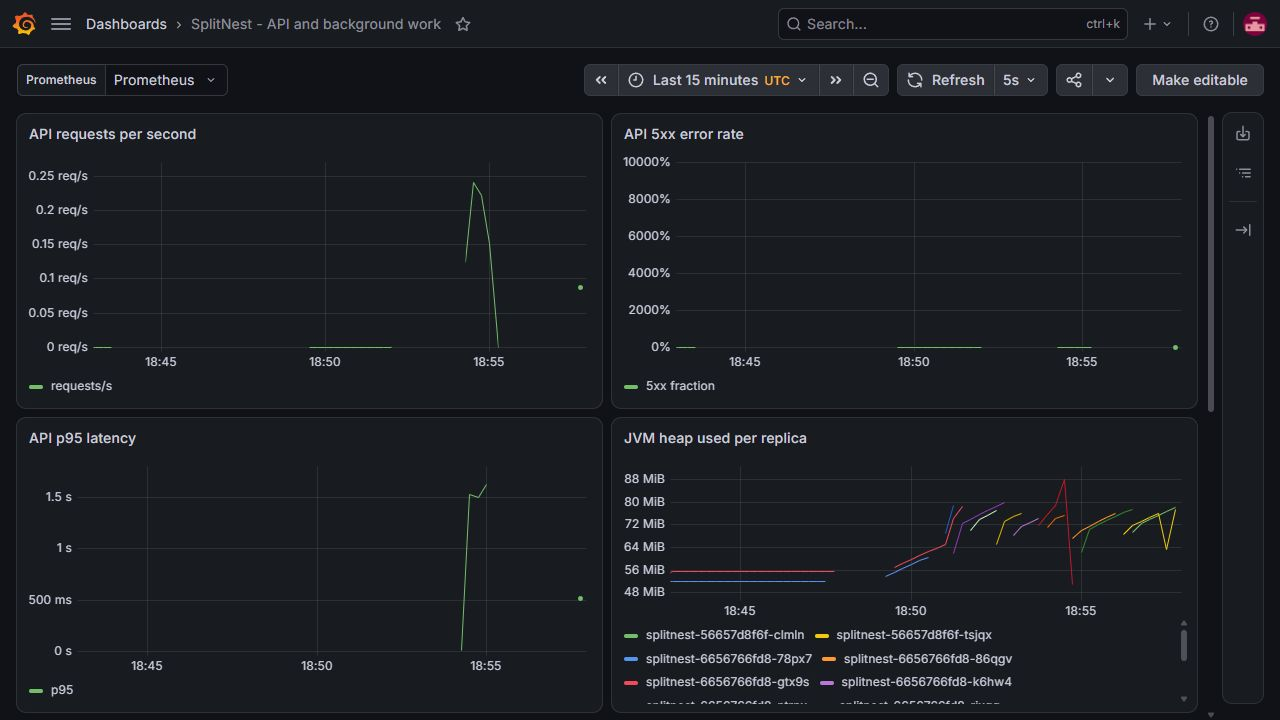
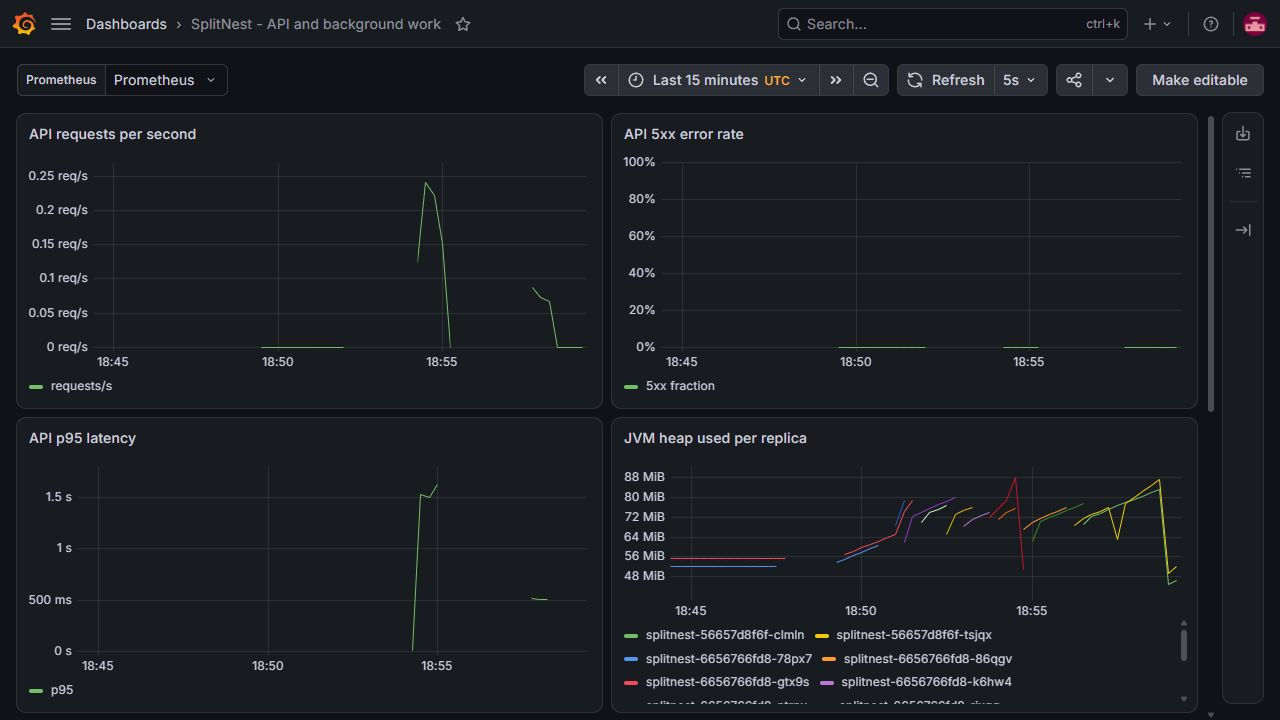
docs: complete verified GitOps walkthrough and interview handoff

diff --git a/docs/development-plan.md b/docs/development-plan.md
@@ -223,7 +223,7 @@ working deployment or a measured performance result.
   belong in structured logs, never high-cardinality metric labels.
 
 These contracts guide the implementation and tests. The status table and evidence
-ledger distinguish locally verified behavior from deployment checks still pending.
+ledger distinguish application tests, completed delivery checks and stated limits.
 
 ## 5. Milestones and acceptance gates
 
@@ -233,8 +233,8 @@ ledger distinguish locally verified behavior from deployment checks still pendin
 | 2. Complete financial API | 1.2-1.5, 2.1-2.4, 3.1 | Registration/login/refresh/logout, Swagger, membership, expenses, SQL balances, isolation suite | Three-user API demo; uneven splits; rollback; history after removal; 404/403 matrix; refresh replay/concurrency tests | All 75 Java tests pass locally and in CI; Compose and Kubernetes API smoke tests pass |
 | 3. Reliability and background work | 3.2-3.4, 4.1-4.5, 9.1-9.2 | Limiting/cache, imports/recovery, budgets/alerts, metrics/log context, initial ADRs | Real Redis tests; file fixtures; one claim across workers; recovery of lost events; duplicate-alert prevention; secret-free logs | Automated tests pass locally and in CI; live imports and one persisted budget alert with two replicas and a ShedLock row verified |
 | 4. Reproducible delivery | 5.1-5.2, 6.2 | Non-root multistage image, full Compose, scan, GHCR image publishing | Healthy Compose startup; smoke scenario; measured image size; required test job and critical-vulnerability scan pass | Verified: Compose, local and remote scans, GHCR publication and anonymous digest retrieval |
-| 5. Kubernetes and GitOps | 7.1-7.6, 8.1-8.4 | kind, handwritten manifests, two replicas, ShedLock, HPA, Argo CD, promotion and rollback | Healthy rollouts; retained expenses after database replacement; persisted-alert uniqueness and observed lock; commit-to-cluster reconciliation; Git rollback; failure experiments | Pod/PostgreSQL recovery, scheduler evidence and HPA 2-to-5 verified; Argo Synced/Healthy on published digest with two ready replicas and passing smoke; live Git rollback pending |
-| 6. Evidence and interview handoff | 9.3-9.4, 10.1-10.3 | Dashboard, controlled k6 runs, complete README/runbooks/ADRs/demo | Actual screenshots and test artifacts; controlled performance report; fresh-checkout CI and final walkthrough; explainable decisions and limitations | Dashboard/metrics, cache/HPA reports and registry-to-cluster rollout verified; final evidence/walkthrough awaits live Git rollback |
+| 5. Kubernetes and GitOps | 7.1-7.6, 8.1-8.4 | kind, handwritten manifests, two replicas, ShedLock, HPA, Argo CD, promotion and rollback | Healthy rollouts; retained expenses after database replacement; persisted-alert uniqueness and observed lock; commit-to-cluster reconciliation; Git rollback; failure experiments | Verified: Pod/PostgreSQL recovery, scheduler evidence, HPA 2-to-5, and automatic Argo promotion/Git rollback/restore, each with two ready replicas and Healthy/Synced status |
+| 6. Evidence and interview handoff | 9.3-9.4, 10.1-10.3 | Dashboard, controlled k6 runs, complete README/runbooks/ADRs/demo | Actual screenshots and test artifacts; controlled performance report; fresh-checkout CI and final walkthrough; explainable decisions and limitations | Dashboard screenshots/metrics, cache/HPA reports, fresh-checkout CI and live GitOps evidence recorded; walkthrough, reading guide and interview questions available |
 
 The successful Linux CI run is evidence of a fresh-checkout build, tests, image
 scan and generated-manifest validation. It does not replace a separately observed
@@ -319,15 +319,18 @@ milestone is ready; it is not another application.
 This branch has now been generated by the successful CI run: manifest sync
 `66feb28`, followed by image promotion `fa03f6d`. The real isolated kind validation
 job passed in addition to the eight local Git/mock-kubectl fixture scenarios.
-Argo CD's Application is now Synced and Healthy at `fa03f6d`, with two ready
+Argo CD's first rollout was Synced and Healthy at `fa03f6d`, with two ready
 replicas using the exact published digest. The registry-image API smoke test and
 readiness check pass; see [first rollout evidence](evidence/argocd-first-rollout.json).
-The live rollback demonstration is still pending.
+The subsequent live Git rollback and restoration of the latest image also passed
+through automatic polling, each reaching Healthy/Synced with two ready replicas;
+see [rollback and restore evidence](evidence/gitops-rollback.json). The final
+observed deployment revision is `3fbf070`, restored to the `e554a02e` digest.
 
 This replaces the original direct-to-main tag commit for a concrete reason:
 strict protected-main rules and unrestricted bot pushes conflict. It adds no
-service or dependency. A deployment-tag Git revert on deploy/local will be the
-rollback demonstration; a bad source change must also be reverted on main.
+service or dependency. The deployment-image Git revert on deploy/local has now
+been demonstrated; a bad source change must also be reverted on main.
 GitHub documents the ordinary GITHUB_TOKEN push recursion behavior in its
 [workflow-trigger guidance](https://docs.github.com/en/actions/how-tos/write-workflows/choose-when-workflows-run/trigger-a-workflow).
 
@@ -386,9 +389,11 @@ manifest, two local app replicas, app/PostgreSQL replacement preserving all 1,00
 fixture expenses, one persisted budget alert with a lock record under two
 replicas, and the provisioned dashboard. Cached/uncached runs and a separate
 observed HPA transition from two to five ready replicas are complete. The budget
-check is not a count of scheduler method executions. Argo is Synced and Healthy
-on the published digest with a passing API smoke/readiness check; Git-driven
-rollback remains the live acceptance check.
+check is not a count of scheduler method executions. Argo reconciled the published
+images, a Git-driven rollback and restoration of the latest release, with two
+ready replicas and Healthy/Synced status at every recorded stage. The releases
+differed only in OCI repository metadata; API implementation remained unchanged
+and no schema rollback was performed.
 
 Use port-forward for Swagger. Run replica/load demonstrations through the actual
 Kubernetes Service, preferably with a k6 Job inside the cluster. Port-forwarding
@@ -427,11 +432,18 @@ Add performance numbers only after repeatable measurements exist.
   pass without suppressing the initial findings. Published image digest:
   `sha256:76091d746a6438430600af27a6b533455822f45d8d16148b4f5e7dd339bfbcf1`;
   anonymous manifest retrieval returned HTTP 200 for that digest.
-- The generated deployment branch contains manifest sync `66feb28` and image
-  promotion `fa03f6d`. Argo CD's Application is Synced and Healthy at that revision,
-  with two ready registry-image replicas on the exact published digest; API smoke
-  and readiness checks pass. The live Git rollback is pending. See
+- The first generated deployment contains manifest sync `66feb28` and image
+  promotion `fa03f6d`. Argo reconciled that exact registry digest with two ready
+  replicas, Healthy/Synced status and passing API smoke/readiness checks. See
   [argocd-first-rollout.json](evidence/argocd-first-rollout.json).
+- Live Git rollback and restore completed: promotion `b458b37` selected
+  `sha256:e554a02e01429c47356c67714ce75b2ae4306c256ffc69d18e80605323e24972`;
+  Git revert `ce8556f` restored the earlier `76091d74` digest; revert-of-revert
+  `3fbf070` restored the latest `e554a02e` image. All three observations reached
+  Healthy/Synced with two ready replicas through automatic Argo polling, without
+  a manual refresh. The latest image is restored. The releases changed OCI
+  metadata only, and no schema rollback occurred. See
+  [gitops-rollback.json](evidence/gitops-rollback.json), whose error field is null.
 - Local kind manifests pass actual API validation. App-Pod and PostgreSQL
   replacement recover successfully, with all 1,000 fixture expenses preserved.
   The local app Secret came from ignored `.env` with the owner's explicit approval.

diff --git a/docs/evidence/verification.md b/docs/evidence/verification.md
@@ -70,6 +70,14 @@ is a separate check below.
   768 MiB limit has remained stable. The error-rate query returns zero when API
   counters exist without 5xx events, and no data when request metrics are absent;
   both conditions were checked against Prometheus.
+- The import-duration panel now uses cumulative duration divided by cumulative
+  count and is titled **Mean import duration since process start**. This keeps
+  completed work visible after the rate window becomes idle. The observed mean
+  was **0.087213369 seconds**, not zero; this is a mean, not a p95 estimate.
+- Actual Grafana captures: [load and autoscaling](grafana-load.png),
+  [API operations](grafana-operations.png), and
+  [background imports and alerts](grafana-background.png). These are runtime
+  captures rather than dashboard mockups. Process counters can reset on rollout.
 
 - [Pod recovery](pod-recovery.json): app replacement and PostgreSQL replacement
   passed; all 1,000 expenses survived the latter. This does not prove backups.
@@ -80,6 +88,11 @@ is a separate check below.
   exact splits, net zero, outsider 404 and refresh replay 401.
 
 ## GitHub delivery
+
+The [final restored-image check](final-runtime.json) passes the real API smoke
+scenario, readiness UP, Swagger HTTP 200 and OpenAPI's 17 paths; both current
+Prometheus app targets are UP. The Compose app and both data stores also remain
+healthy. The running Kubernetes image is the newer `e554a02e...` digest.
 
 - [Run 39131104288](https://github.com/Aadyant-7/splitnest/actions/runs/39131104288):
   SUCCESS for `9d095d4984170d9df891e59164794c88eb2c8b65`. All 75 Java tests,
@@ -94,7 +107,45 @@ is a separate check below.
   The harness now resets status only after every assertion and cleanup succeeds;
   the complete rerun passed. The image gate was never bypassed.
 
-## Remaining live checks
+### Second verified release
 
-Git-driven rollback is being verified with a second scanned release.
-Backup/restore rehearsal and production/cloud deployment are not claimed.
+- [Run 39156608544](https://github.com/Aadyant-7/splitnest/actions/runs/39156608544):
+  all three jobs succeeded for `3d92be1f319e3ea9bb2837d10b5cdfa383ec946f`.
+  Verification, non-root image inspection, the Trivy CRITICAL gate, GHCR push,
+  generated-manifest validation and deployment-branch promotion all passed.
+- Published digest:
+  `sha256:e554a02e01429c47356c67714ce75b2ae4306c256ffc69d18e80605323e24972`.
+- Manifest synchronization commit: `a192fb6`. Image-only promotion: `b458b37`.
+  Separating those commits allows an image rollback to retain updated manifests.
+- The temporary CI validation cluster was deleted successfully. This CI cluster
+  is separate from the persistent local `kind-splitnest` application cluster.
+
+## Live GitOps rollback and restoration
+
+[The recorded observation](gitops-rollback.json) verifies both directions against
+the actual `kind-splitnest` application. Every stage reached **Synced**, **Healthy**
+and **two ready replicas**:
+
+| Stage | Deployment Git revision | Observed image digest prefix | Recorded elapsed time |
+|---|---|---|---:|
+| Second release | `b458b37` | `e554a02e…` | 61.0 seconds |
+| Revert image promotion | `ce8556f` | `76091d74…` | 192.9 seconds |
+| Revert the rollback | `3fbf070` | `e554a02e…` | 284.1 seconds |
+
+The full revisions and exact image digests are retained in the JSON record.
+Automatic Argo polling performed reconciliation; no manual Argo refresh was used.
+The recorded elapsed values include polling, rollout and observation delays;
+they are not isolated controller-response benchmarks.
+
+The two scanned images differ in OCI repository metadata; the API implementation
+is unchanged. This verifies the backward/forward image deployment mechanism,
+not rollback of a business change or database schema. The image-only revert
+preserved the separate manifest synchronization commit. Flyway migrations were
+not reversed.
+
+## Scope and recovery limits
+
+Backup/restore rehearsal, off-machine backup retention, a highly available
+PostgreSQL service and production/cloud deployment are not claimed. The runbooks
+document additional failure and recovery procedures; a documented command alone
+does not establish that every optional experiment was executed.

diff --git a/docs/gitops.md b/docs/gitops.md
@@ -121,8 +121,12 @@ git log --oneline -8
 # Select the image-only promotion commit after checking its diff:
 git show <promotion-commit>
 git revert <promotion-commit>
+$rollbackRevision = git rev-parse HEAD
 git push origin HEAD:deploy/local
+kubectl --context kind-splitnest -n argocd wait application/splitnest-local "--for=jsonpath={.status.sync.revision}=$rollbackRevision" --timeout=300s
 kubectl --context kind-splitnest -n splitnest rollout status deployment/splitnest --timeout=240s
+kubectl --context kind-splitnest -n argocd get application splitnest-local
+kubectl --context kind-splitnest -n splitnest get deployment splitnest -o jsonpath='{.spec.template.spec.containers[0].image}'
 ```
 
 The revert changes desired state in Git; Argo CD then deploys it. A direct
@@ -135,6 +139,20 @@ When branch protection requires a PR for `deploy/local`, open the rollback branc
 as a PR and merge through that rule instead of pushing directly. Do not force-push
 or rewrite deployment history. Verify the digest and API behavior after rollback;
 a Git commit alone is not deployment evidence.
+
+Wait for Argo to observe the new Git revision before checking the rollout; an
+immediate rollout check can otherwise report success for the previous version.
+Stop and investigate a timed-out wait. Compare the final image with
+`deploy/provenance/image.env`, confirm Healthy/Synced, and run the API smoke test.
+[Normal Git polling](https://argo-cd.readthedocs.io/en/stable/faq/)
+can take a few minutes; the runner does not contact the laptop.
+
+The [recorded live exercise](evidence/gitops-rollback.json) observed image-only
+promotion `b458b37`, Git revert `ce8556f`, and revert-of-revert `3fbf070`. Both
+directions reached Healthy/Synced with two ready replicas through normal polling;
+no manual Argo refresh or rollout undo was used. The two scanned images differ
+in OCI repository metadata, with the same API implementation. This verifies the
+deployment mechanism, not reversal of a business-data or schema change.
 
 ## Questions to check understanding
 

diff --git a/docs/decisions/0006-gitops-deployment-branch.md b/docs/decisions/0006-gitops-deployment-branch.md
@@ -1,7 +1,8 @@
 # ADR 0006: Separate reviewed source from generated deployment state
 
-Status: implemented; remote CI publication and promotion verified. Live Argo
-reconciliation and rollback are recorded separately in the verification ledger.
+Status: implemented and verified through remote CI publication/promotion, live
+Argo reconciliation and automatic Git-driven rollback/restoration. See the
+[verification ledger](../evidence/verification.md).
 
 ## Context
 
@@ -37,7 +38,15 @@ There is an extra generated branch and promotion protocol to maintain. Git rollb
 does not undo database migrations, so schema changes must remain compatible with
 the previous image. This ADR describes the required protocol; files or a successful
 local render do not establish publication, branch creation, reconciliation or
-rollback. See [gitops.md](../gitops.md) and actual verification records for status.
+rollback. The two successful CI releases demonstrate the remote publication and
+promotion protocol. The [live rollback record](../evidence/gitops-rollback.json)
+separately shows Synced/Healthy with two ready replicas for the second image,
+its predecessor after a promotion revert, and the second image after reverting
+that rollback. Automatic Argo polling reconciled each stage without a manual
+refresh. Those images differ in OCI repository labels with the same API code;
+the observation proves image deployment reversal rather than business/schema
+rollback. See [gitops.md](../gitops.md) and the verification ledger for release
+identities and explicitly excluded recovery/deployment claims.
 
 Understanding check: why would ignoring every `deploy/**` change at workflow
 trigger level interfere with required checks or manifest-only delivery?

diff --git a/README.md b/README.md
@@ -6,8 +6,8 @@ access isolation with background processing and a local Kubernetes delivery lab.
 Swagger UI is the interactive API interface; there is no separate frontend.
 
 **Verified:** 75 Java tests with real PostgreSQL/Redis containers, 20 script
-scenarios, Compose and Kubernetes API smoke tests, Pod recovery, and separate
-cache/autoscaling experiments. [GitHub CI](https://github.com/Aadyant-7/splitnest/actions/runs/39131104288)
+scenarios, Compose and Kubernetes API smoke tests, Pod recovery, Git rollback and
+restoration, and separate cache/autoscaling experiments. [GitHub CI](https://github.com/Aadyant-7/splitnest/actions/workflows/ci.yml)
 passed verification, image scanning, public GHCR publication and deployment-branch
 generation. Argo CD reconciled the published image with Healthy/Synced status.
 See the [verification record](docs/evidence/verification.md) for evidence.
@@ -160,3 +160,10 @@ bounded eventual consistency; logout does not immediately invalidate access JWTs
 The local cluster uses a single PostgreSQL instance and is not a highly available
 production environment. Current limits and measured evidence are documented
 alongside the implementation.
+
+## Resume summary
+
+Built a Java 21/Spring Boot expense-sharing API with PostgreSQL transactions,
+JWT security, Redis caching/rate limiting and asynchronous statement imports;
+automated testing, image scanning and local Kubernetes delivery using GitHub
+Actions, Argo CD and Prometheus/Grafana.

diff --git a/docs/demo.md b/docs/demo.md
@@ -243,11 +243,12 @@ and cannot prove that load was distributed.
 > and Redis supplies shared limiting and bounded-staleness caching. Background
 > imports use persisted jobs, atomic claims and recovery rather than depending on
 > an in-memory event alone. The repository includes container, Kubernetes,
-> GitOps and monitoring definitions with tests and operating documentation.
+> GitOps delivery and monitoring, verified against a local Kubernetes cluster,
+> with tests and operating documentation.
 
-Replace “includes definitions” with claims about running delivery/monitoring only
-after the evidence shows those steps completed. Add performance numbers only after
-a repeatable controlled measurement. The local single PostgreSQL instance and PVC
+The verification ledger links the successful CI run and exact registry image
+reconciled by Argo CD. Describe the controlled performance results with their
+dataset and limits; do not treat one local run as a capacity guarantee. The local single PostgreSQL instance and PVC
 are a deployment learning setup, not a highly available database or a backup plan.
 
 After demonstrating, explain without reading:

diff --git a/docs/monitoring.md b/docs/monitoring.md
@@ -147,6 +147,18 @@ scaling result that was not observed.
 
 ## Evidence to retain
 
+The import mean panel divides cumulative duration by completed observations for
+the currently scraped processes, grouped by status. Its title says "since process
+start"; it is not a rolling-window latency or p95. This also displays the first
+completed job, whose counter may already equal one on its first scrape. Counters
+reset with a Pod, and the budget panel aggregates all groups/categories; consult
+the database for durable alert history.
+
+The API error fraction uses a 0–1 scale displayed as 0–100%. With request metrics
+present and no recorded 5xx series, it displays zero. Missing request metrics stay
+"no data" so a missing scrape does not masquerade as a healthy API. Both query
+conditions and a positive import mean were checked against actual Prometheus.
+
 Save a short report under `docs/evidence/` containing hardware/Docker resources,
 tested commit/digest, dataset size, replica count, cache setting, VUs, duration,
 numeric k6 output and screenshots of both traffic and resource panels. Summaries

diff --git a/docs/performance.md b/docs/performance.md
@@ -227,6 +227,12 @@ not a production SLA. This single-node kind environment includes the application
 PostgreSQL, Redis and the load generator on the same laptop; its results do not
 establish production capacity or high availability.
 
+The overview dashboard's API p95 covers every `/api/` endpoint, including BCrypt
+registration/login, over a rolling histogram window. The k6 table measures only
+balance requests in its stated scenario and excludes setup/warm-up. Different
+request populations, windows and histogram buckets mean those p95 values need
+not match; do not substitute one for the other in an interview.
+
 For a repeat experiment, observe desired/current replicas and per-Pod CPU rather
 than assuming this transition will recur on another machine. A cached balances
 workload may not exceed the CPU target with a different dataset, request rate,
